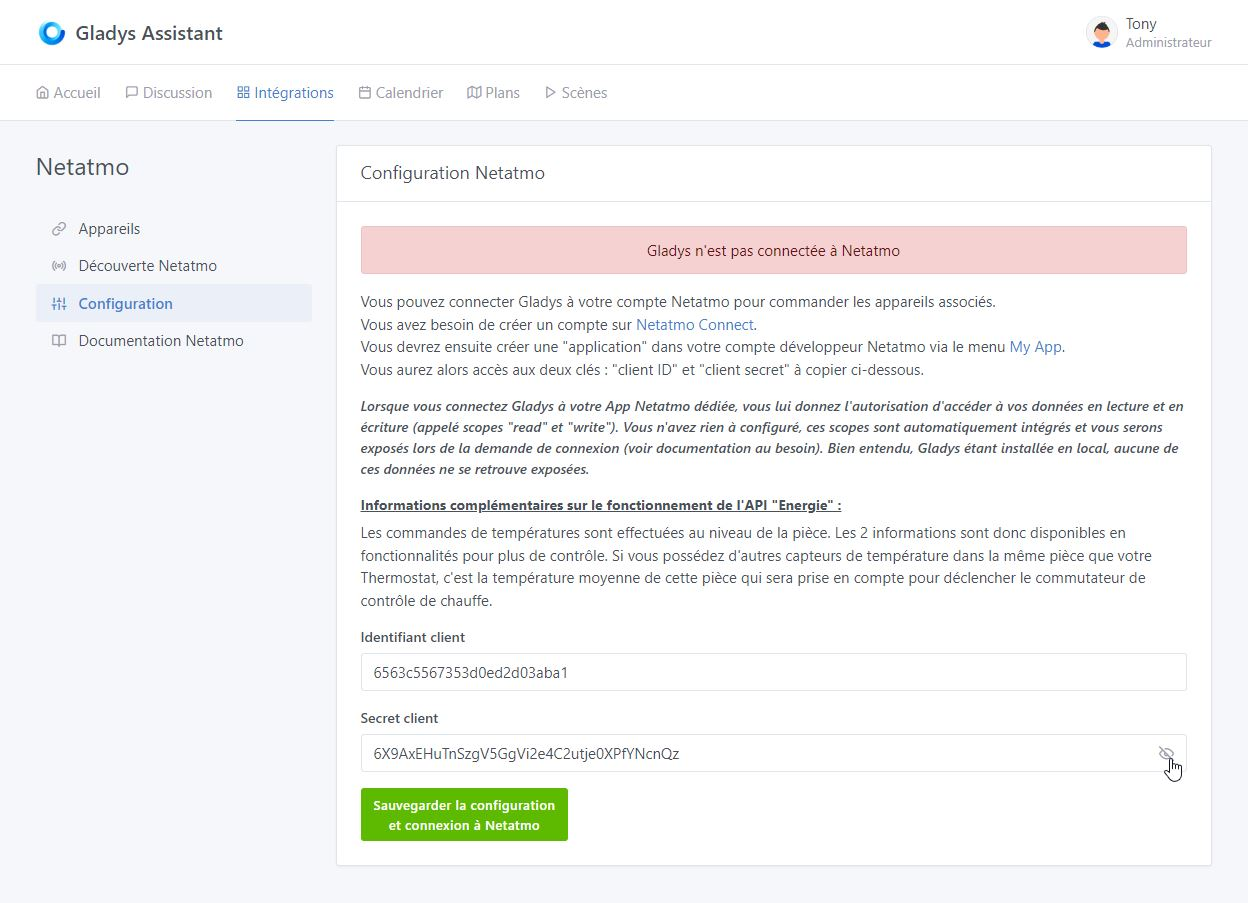
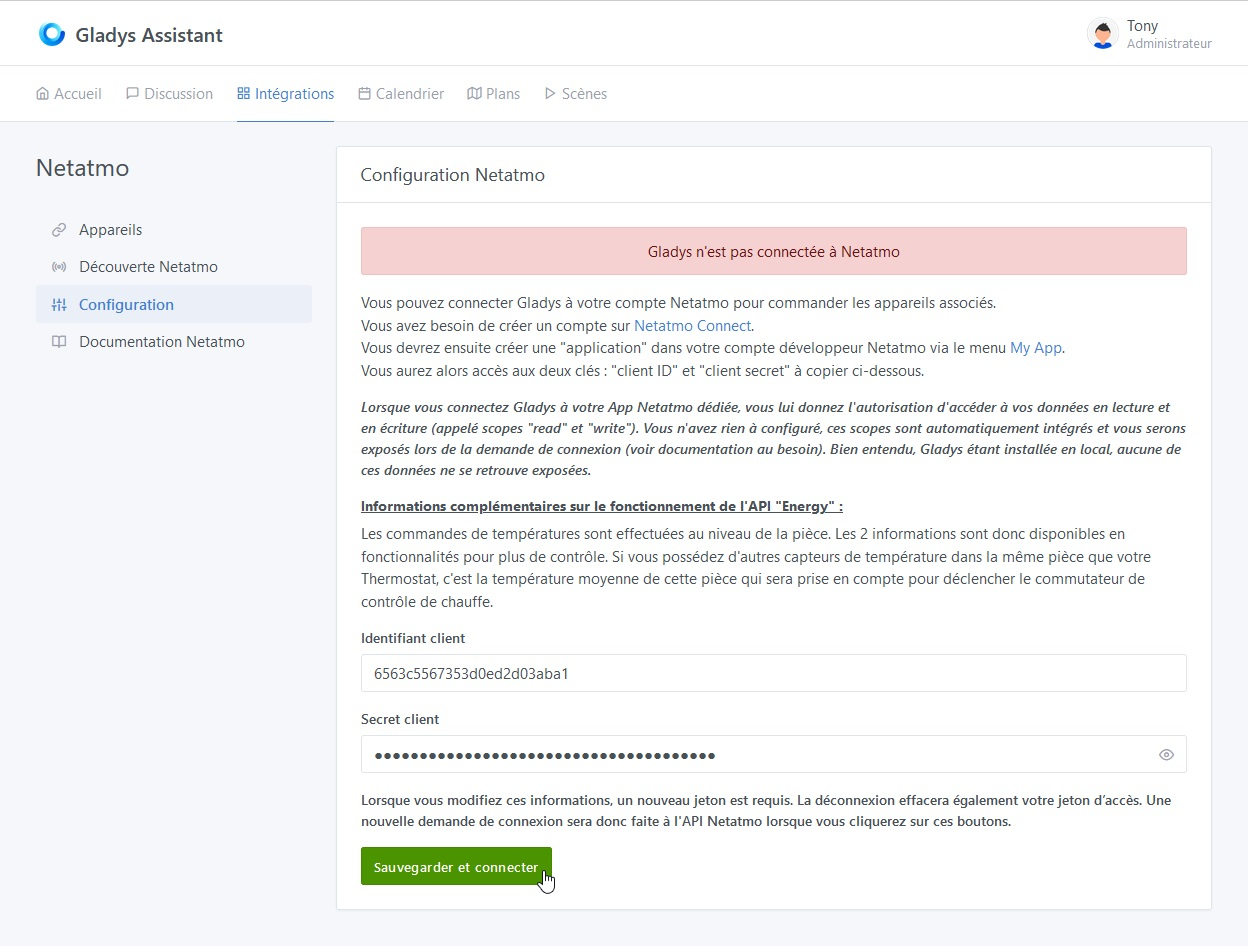
refactor: Update Netatmo integration images (fr)

diff --git a/i18n/fr/docusaurus-plugin-content-docs/current/integrations/netatmo.md b/i18n/fr/docusaurus-plugin-content-docs/current/integrations/netatmo.md
@@ -50,7 +50,7 @@ Puis cliquer sur l'onglet `Configuration` pour accéder à la page de connexion 
 Depuis l'onglet `Configuration`, entrez les informations récupérées lors de [l'étape précédente](/fr/docs/integrations/netatmo#etape-2---netatmo-connect) :
 - Le client ID,
 - Le client secret
-![Integration Netatmo - Configuration - Déconnecté](../../../../../static/img/docs/fr/configuration/netatmo/fr-netatmo-integrations-setup-disconnected.jpg)
+![Integration Netatmo - Configuration - Non configuré](../../../../../static/img/docs/fr/configuration/netatmo/fr-netatmo-integrations-setup-not-configured.jpg)
 
 
 Enfin cliquez sur le bouton `Sauvegarder la configuration et connexion à Netatmo`.
@@ -58,7 +58,7 @@ Enfin cliquez sur le bouton `Sauvegarder la configuration et connexion à Netatm
 
 ### Etape 1.2 : Autorisation de connexion de l'application Gladys à votre compte Netatmo
 Il est important de noter qu'en cliquant sur `OUI, J'ACCEPTE` vous autorisez Gladys à accéder en lecture et en écriture pour tous les appareils actuellement supportés ainsi qu'en lecture à tous les appareils qui ne sont pas encore supportés dans le but de faciliter leur intégration future. Aucune donnée ni aucun accès n'est partagé à l'extérieur de votre instance Gladys locale.
-![Integration Netatmo - Configuration - Connecté](../../../../../static/img/docs/fr/configuration/netatmo/fr-netatmo-authorize-access.jpg)
+![Integration Netatmo - Configuration - Autorisation](../../../../../static/img/docs/fr/configuration/netatmo/fr-netatmo-authorize-access.jpg)
 
 Pour toute nouvelle intégration d'appareils non encore pris en charge, vous devrez à nouveau passer par cette étape pour accepter l'écriture (commandes) sur ces nouveaux appareils.
 
@@ -66,6 +66,11 @@ Pour toute nouvelle intégration d'appareils non encore pris en charge, vous dev
 Après acceptation, vous serez redirigé sur votre précédente page de Gladys, vous devriez maintenant être connecté avec l'API Netatmo. 
 
 ![Integration Netatmo - Configuration - Connecté](../../../../../static/img/docs/fr/configuration/netatmo/fr-netatmo-integrations-setup-connected.jpg)
+
+### Step 1.4: Se déconnecter de l'application
+Vous pouvez vous déconnecter complètement de l'application Netatmo en cliquant sur le bouton 'Déconnecter'. Cela effacera les informations d'identification et les autorisations associées.
+
+![Integration Netatmo - Configuration - Déconnecté](../../../../../static/img/docs/fr/configuration/netatmo/fr-netatmo-integrations-setup-disconnected.jpg)
 
 ### Etape 2.1 : Découverte des appareils Netatmo compatibles
 
@@ -87,7 +92,7 @@ Vous pouvez sélectionner la pièce Gladys dans laquelle ils sont installés pui
 
 ![Integration Netatmo - Découverte - Déjà créé](../../../../../static/img/docs/fr/configuration/netatmo/fr-netatmo-integrations-discovery-already-created.jpg)
 
-Sur cette page vous retrouvé également en haut un bouton `Rafraichir` pour effectuer un rafraichissement des fonctionnalités des appareils en cas de changement de ces derniers dans les applications Netatmo ou en cas de nouvelle prise en charge dans Gladys.
+Sur cette page vous retrouvez également en haut un bouton `Rafraichir` pour effectuer un rafraichissement des fonctionnalités des appareils en cas de changement de ces derniers dans les applications Netatmo ou en cas de nouvelle prise en charge dans Gladys.
 
 ![Integration Netatmo - Découverte - Rafraichir](../../../../../static/img/docs/fr/configuration/netatmo/fr-netatmo-integrations-discovery-refresh.jpg)
 
@@ -121,27 +126,20 @@ De plus certaines fonctionnalités pourront être affichées de différentes man
 
 ## Road Map - Prévision d'évolution du service
 
-### Pull request 1 - Suite des appareils "Energy"
-- Vannes (NRV)
-### Pull request 2 - Ajout du bouton "Modifier"
-Pouvoir modifier les noms des fonctionnalités des appareils Netatmo
-### Pull request 3 - Ajout de la station météo "Weather"
-- Station météo principale (NAMain),
-- Module extérieur (NAModule1).
-### Pull request 4 - Suite des appareils "Weather"
-- Anémomètre (NAModule2),
-- Pluviomètre (NAModule3),
-- Modules intérieurs complémentaires (NAModule4).
-### Pull request 5 - Ajout de la sécurité Netatmo "Home + Security"
-- Caméra intérieure (NACamera),
-- Capteur d'ouverture de porte et fenêtre (NACamDoorTag),
-- Sirène (NIS).
-### Pull request 6 - Suite des appareils "Home + Security"
-- Caméra extérieure (NOC) avec ou sans sirène,
-- Détecteur de fumée (NSD).
-### Pull request 7 - Ajout du Homecoach "Aircare"
-- Capteur de qualité de l'air (NHC).
-### Pull request 8 - Ajout des webhooks ([Pour les utilisateurs Gladys Plus](/fr/plus/))
+- #### Pull request 1 - Netatmo "Energy" : Vannes (NRV)
+- #### Pull request 2 - Netatmo "Weather" : Station météo principale (NAMain)
+- #### Pull request 3 - Netatmo "Weather" : Modules intérieurs complémentaires (NAModule4)
+- #### Pull request 4 - Netatmo "Weather" : Module extérieur (NAModule1)
+- #### Pull request 5 - Netatmo "Weather" : Anémomètre (NAModule2)
+- #### Pull request 6 - Netatmo "Weather" : Pluviomètre (NAModule3)
+- #### Pull request 7 - Netatmo "Aircare" - Homecoach : Capteur de qualité de l'air (NHC)
+- #### Pull request 8 - Netatmo "Home + Security" : Caméra intérieure (NACamera)
+- #### Pull request 9 - Netatmo "Home + Security" : Capteur d'ouverture de porte et fenêtre (NACamDoorTag)
+- #### Pull request 10 - Netatmo "Home + Security" : Sirène (NIS)
+- #### Pull request 11 - Netatmo "Home + Security" : Caméra extérieure (NOC) avec ou sans sirène
+- #### Pull request 12 - Netatmo "Home + Security" : Détecteur de fumée (NSD)
+- #### Pull request 13 - Ajout du bouton "Modifier" : Pouvoir modifier les noms des fonctionnalités des appareils Netatmo
+- #### Pull request 14 - Ajout des webhooks ([Pour les utilisateurs Gladys Plus](/fr/plus/))
 Cette fonctionnalité permettra de recevoir les alertes et changements d'états de certains appareils en temps réel (Consignes de température, détection caméra, détection d'ouverture de porte, alerte de connexion/déconnexion d'un appareil, etc.) pour tout ceux qui disposent d'un abonnement Gladys Plus.
 #### ... Au gré des demandes d'ajouts de fonctionnalités ...
 

diff --git a/docs/integrations/netatmo.md b/docs/integrations/netatmo.md
@@ -50,14 +50,14 @@ From the `Setup` tab, enter the information retrieved during the [previous step]
 - The client ID,
 - The client secret
 
-![Netatmo Integration - Setup - Disconnected](../../static/img/docs/en/configuration/netatmo/en-netatmo-integrations-setup-not-configured.jpg)
+![Netatmo Integration - Setup - Not configured](../../static/img/docs/en/configuration/netatmo/en-netatmo-integrations-setup-not-configured.jpg)
 
 Then click on the `Save and connect` button.
 [You will then be redirected to the Netatmo website to accept the connection from Gladys.](/docs/integrations/netatmo#step-12-authorizing-gladys-application-to-connect-to-your-netatmo-account)
 
 ### Step 1.2: Authorizing Gladys Application to Connect to Your Netatmo Account
 It is important to note that by clicking on `YES, I ACCEPT` you allow Gladys to access in read and write mode for all currently supported devices as well as read-only for devices not yet supported to facilitate their future integration. No data or access is shared outside of your local Gladys instance.
-![Netatmo Integration - Setup - Connected](../../static/img/docs/en/configuration/netatmo/en-netatmo-authorize-access.jpg)
+![Netatmo Integration - Setup - Authorize](../../static/img/docs/en/configuration/netatmo/en-netatmo-authorize-access.jpg)
 
 For any new integration of devices not yet supported, you will have to go through this step again to accept the writing (commands) on these new devices.
 
@@ -136,7 +136,7 @@ Moreover, some features will be able to be displayed in different ways.
 - #### Pull request 9 - Netatmo "Home + Security" : Door and window opening sensor (NACamDoorTag)
 - #### Pull request 10 - Netatmo "Home + Security" : Siren (NIS)
 - #### Pull request 11 - Netatmo "Home + Security" : Outdoor Camera (NOC) with or without siren
-- #### Pull request 12 - Netatmo "Home + Security" : Smoke detector (NSD).
+- #### Pull request 12 - Netatmo "Home + Security" : Smoke detector (NSD)
 - #### Pull request 13 - Adding the "Edit" button : Ability to modify the feature names of Netatmo devices
 - #### Pull request 14 - Adding webhooks ([For Gladys Plus users](/plus/))
 This feature will enable real-time reception of alerts and state changes for certain devices (temperature settings, camera detection, door opening detection, device connection/disconnection alerts, etc.) for those who have a Gladys Plus subscription.
